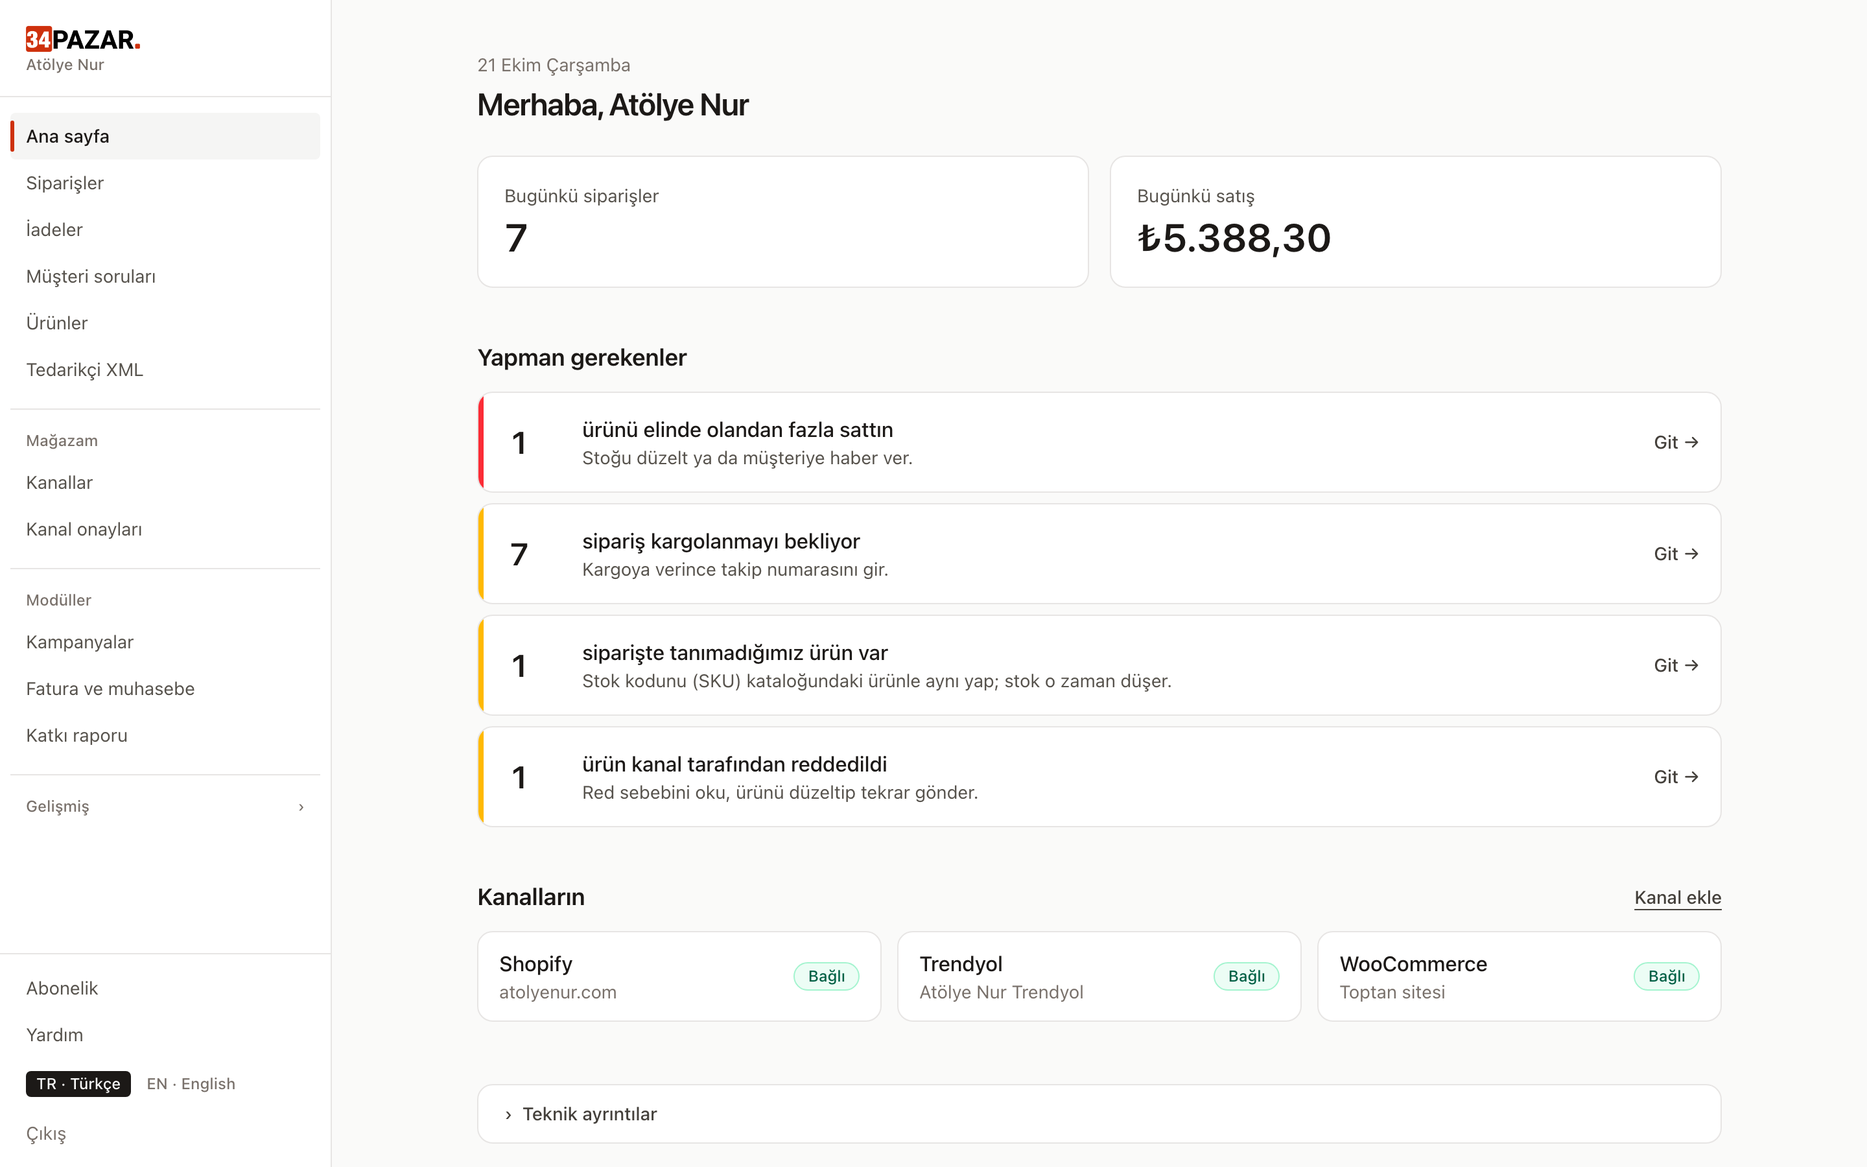
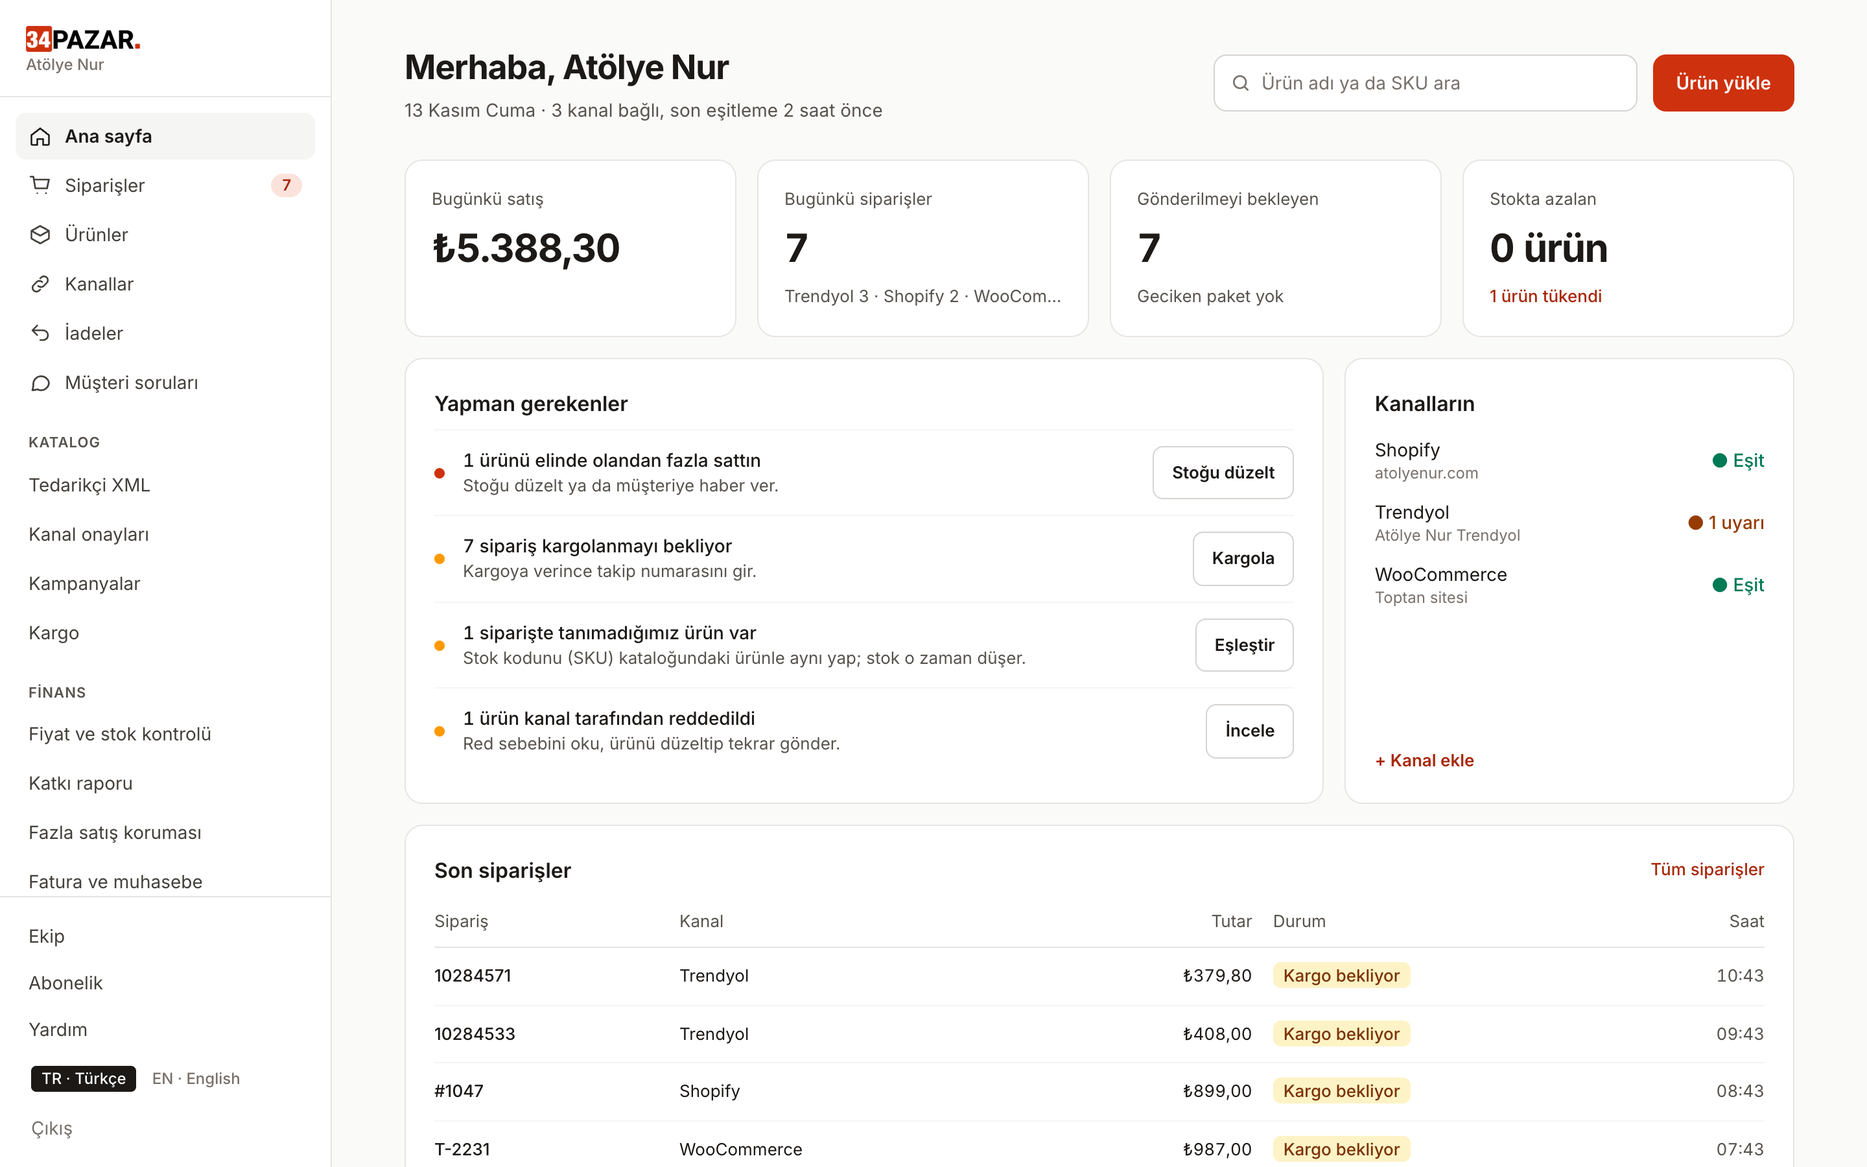
feat(demo): demo panel herkese görünür ve modüller dolu
- Site: hero'da "Demo paneli gör" düğmesi, üst şeritte + mobil menüde
  bağlantı; ana sayfa görselleri yeni panelden (Yön A)
- Demo kullanıcısı SAHİP (bütün menü görünür; yazma rolden bağımsız 403)
- Demo: kanallar bağlı görünür, Yurtiçi + Aras kargo hesabı ve gönderileri,
  Nilvera e-fatura + 2 fatura, 3 müşteri sorusu, 1 iade talebi, dünkü
  siparişler, azalan stok; kurulum şeridi demoda gizli
- Dışarı istek yok: gönderiler takibe girmez, faturalar gönderilmiş
- Uyarı postası demo sahibine gitmez (DispatchAlerts), testli
- Hepsiburada 'Open' durumu "Kargo bekliyor" olarak gösterilir

diff --git a/resources/js/lib/format.js b/resources/js/lib/format.js
@@ -52,7 +52,8 @@ export function channelName(code) {
  * ile listedeki rozet aynı şeyi söylemeli. Tanınmayan durum olduğu gibi
  * yazılır: yanlış bir tercüme uydurmaktan iyidir.
  */
-const awaiting = ['processing', 'paid', 'partially_paid', 'partial', 'created', 'picking', 'invoiced'];
+// 'open' = Hepsiburada'nın gönderime hazır paketi (adapter da awaiting_shipment'a eşler).
+const awaiting = ['processing', 'paid', 'partially_paid', 'partial', 'created', 'picking', 'invoiced', 'open'];
 const shipped = ['shipped', 'completed', 'fulfilled', 'intransit', 'atcollectionpoint'];
 const delivered = ['delivered'];
 const cancelled = ['cancelled', 'canceled', 'unpacked', 'voided', 'failed'];

diff --git a/app/Domain/Identity/Support/DemoAccount.php b/app/Domain/Identity/Support/DemoAccount.php
@@ -16,11 +16,20 @@ use App\Domain\Inventory\Actions\ApplyMovement;
 use App\Domain\Inventory\Actions\LockInventoryRows;
 use App\Domain\Inventory\Enums\MovementType;
 use App\Domain\Inventory\Support\MovementKey;
+use App\Domain\Invoicing\Models\Invoice;
+use App\Domain\Invoicing\Models\InvoiceAccount;
 use App\Domain\Orders\Actions\IngestChannelOrder;
 use App\Domain\Orders\Models\Fulfillment;
 use App\Domain\Orders\Models\Order;
 use App\Domain\Orders\Support\IncomingOrder;
 use App\Domain\Orders\Support\IncomingOrderLine;
+use App\Domain\Questions\Enums\QuestionStatus;
+use App\Domain\Questions\Models\ChannelQuestion;
+use App\Domain\Returns\Enums\ReturnStatus;
+use App\Domain\Returns\Models\ReturnRequest;
+use App\Domain\Returns\Models\ReturnRequestLine;
+use App\Domain\Shipping\Models\CarrierAccount;
+use App\Domain\Shipping\Models\CarrierShipment;
 use App\Domain\Sync\Models\Listing;
 use App\Domain\Sync\Models\ListingSyncState;
 use App\Support\Tenancy\TenantContext;
@@ -126,11 +135,14 @@ final class DemoAccount
         $tenant = (new CreateTenant)->run(name: self::TENANT_NAME, owner: $user);
         $tenant->forceFill(['is_demo' => true])->save();
 
-        // Sahip yok: demo kullanıcısı salt okunur üyedir.
+        // 13 Kas 2026 (kullanıcı kararı): demo kullanıcısı SAHİP rolündedir
+        // ki ziyaretçi menünün TAMAMINI (Ayarlar, Ekip, Abonelik, Kargo,
+        // Fatura) görsün. Yazma yine kapalıdır: `AuthorizeTenantRoute` demo
+        // kiracısında rolden bağımsız olarak yalnız okuma isteğini geçirir.
         TenantUser::query()
             ->where('tenant_id', $tenant->id)
             ->where('user_id', $user->id)
-            ->update(['role' => TenantRole::VIEWER->value]);
+            ->update(['role' => TenantRole::OWNER->value]);
 
         TenantContext::set($tenant->id);
 
@@ -162,7 +174,10 @@ final class DemoAccount
                 'external_account_id' => $account,
                 'status' => 'inactive',
                 'settings' => [],
-                'health_status' => 'unknown',
+                // Örnek bağlantı "bağlı" görünür; `status` inactive kaldığı
+                // için hiçbir iş kanala gitmez (ChannelHttpClient de keser).
+                'health_status' => 'healthy',
+                'last_healthy_at' => now()->subMinutes(4),
                 'connected_at' => now()->subDays(20),
                 'product_publish_enabled' => false,
                 'price_sync_enabled' => false,
@@ -175,7 +190,7 @@ final class DemoAccount
             ['KUP-350-BEYAZ', 'Seramik Kupa 350 ml · Beyaz', '189.90', 64],
             ['KUP-350-YESIL', 'Seramik Kupa 350 ml · Yağ Yeşili', '189.90', 23],
             ['MUM-LAV-200', 'El Yapımı Soya Mum · Lavanta', '249.00', 41],
-            ['MUM-SDR-200', 'El Yapımı Soya Mum · Sedir', '249.00', 7],
+            ['MUM-SDR-200', 'El Yapımı Soya Mum · Sedir', '249.00', 5],
             ['TAB-BAM-L', 'Bambu Kesme Tahtası · Büyük', '329.00', 18],
             ['ORT-KTN-140', 'Keten Masa Örtüsü 140×180', '899.00', 9],
             ['SBN-ZYT-3L', 'Zeytinyağlı Sabun · 3\'lü', '159.00', 120],
@@ -236,6 +251,10 @@ final class DemoAccount
             ['hepsiburada', '4471209101', 'Open', 7, [['KUP-350-YESIL', 4]], 'KUP-350-MAVI'],
             ['shopify', '#1043', 'fulfilled', 26, [['MUM-SDR-200', 1]]],
             ['trendyol', '10283977', 'Delivered', 30, [['SBN-ZYT-3L', 2]]],
+            // Dünün siparişleri: ana sayfadaki "dünden" kıyası anlamlı kalsın.
+            ['hepsiburada', '4471208766', 'Delivered', 25, [['ORT-KTN-140', 2], ['MUM-LAV-200', 2]]],
+            ['shopify', '#1041', 'fulfilled', 27, [['TRM-500-SYH', 3], ['KUP-350-BEYAZ', 2]]],
+            ['trendyol', '10283902', 'Delivered', 29, [['TAB-BAM-L', 2], ['STD-AHS-01', 3]]],
         ];
 
         foreach ($orders as $i => $row) {
@@ -307,5 +326,155 @@ final class DemoAccount
                 'push_status' => null,
             ]);
         }
+
+        $this->fillModules($channels);
+    }
+
+    /**
+     * Kargo, e-fatura, müşteri soruları ve iade — ziyaretçi modüllerin dolu
+     * hâlini görsün (13 Kas 2026, kullanıcı isteği).
+     *
+     * DIŞARI İSTEK ÇIKMAZ:
+     *   · kargo kaydında `confirmed_at` boş → `shipping:track` seçmez
+     *   · fatura `issued` + `upload_status` sent, `public_token` yok → ne
+     *     kesme ne yükleme ne PDF çekme işi tetiklenir
+     *   · soru/iade senkronu `inactive` bağlantıya gitmez
+     *   · kimlik bilgileri örnektir; demo kiracısında yazma rotası zaten 403
+     *
+     * @param  array<string, ChannelConnection>  $channels
+     */
+    private function fillModules(array $channels): void
+    {
+        $tenantId = $channels['trendyol']->tenant_id;
+        $order = fn (string|int $number): Order => Order::query()->where('external_number', (string) $number)->firstOrFail();
+
+        foreach ([CarrierAccount::PROVIDER_YURTICI, CarrierAccount::PROVIDER_ARAS] as $provider) {
+            CarrierAccount::query()->create([
+                'tenant_id' => $tenantId,
+                'provider' => $provider,
+                'environment' => CarrierAccount::ENV_LIVE,
+                'credentials' => ['username' => 'ornekatolye', 'password' => 'ornek-parola'],
+                'status' => CarrierAccount::STATUS_CONNECTED,
+                'verified_at' => now()->subDays(18),
+            ]);
+        }
+
+        // Teslim edilmiş paket + etiketi kesilmiş, kargoya verilmeyi bekleyen paket.
+        $delivered = $order('#1043');
+        CarrierShipment::query()->create([
+            'tenant_id' => $tenantId,
+            'order_id' => $delivered->id,
+            'fulfillment_id' => Fulfillment::query()->where('order_id', $delivered->id)->value('id'),
+            'provider' => CarrierAccount::PROVIDER_YURTICI,
+            'environment' => CarrierAccount::ENV_LIVE,
+            'cargo_key' => '1043-YK',
+            'status' => CarrierShipment::STATUS_DELIVERED,
+            'carrier_status_text' => 'Teslim edildi',
+            'tracking_number' => '30584712206',
+            'package_count' => 1,
+            'attempts' => 1,
+            'create_requested_at' => now()->subHours(25),
+            'shipped_at' => now()->subHours(20),
+            'delivered_at' => now()->subHours(2),
+        ]);
+
+        CarrierShipment::query()->create([
+            'tenant_id' => $tenantId,
+            'order_id' => $order('10284498')->id,
+            'provider' => CarrierAccount::PROVIDER_ARAS,
+            'environment' => CarrierAccount::ENV_LIVE,
+            'cargo_key' => '10284498-AR',
+            'status' => CarrierShipment::STATUS_CREATED,
+            'carrier_status_text' => 'Kargo şubesine teslim bekleniyor',
+            'tracking_number' => '6081734452',
+            'package_count' => 1,
+            'attempts' => 1,
+            'create_requested_at' => now()->subHours(5),
+        ]);
+
+        InvoiceAccount::query()->create([
+            'tenant_id' => $tenantId,
+            'provider' => InvoiceAccount::PROVIDER_NILVERA,
+            'credentials' => ['api_key' => 'demo'],
+            'company_id' => '1234567890',
+            'company_name' => 'Örnek Atölye Tic. Ltd. Şti.',
+            'settings' => [
+                InvoiceAccount::SETTING_ENVIRONMENT => InvoiceAccount::ENVIRONMENT_LIVE,
+                'companies' => [['id' => '1234567890', 'name' => 'Örnek Atölye Tic. Ltd. Şti.']],
+            ],
+            'status' => InvoiceAccount::STATUS_CONNECTED,
+        ]);
+
+        foreach (['#1043' => 'EAR2026000000118', '10283977' => 'EAR2026000000117'] as $number => $invoiceNumber) {
+            Invoice::query()->create([
+                'tenant_id' => $tenantId,
+                'order_id' => $order($number)->id,
+                'provider' => InvoiceAccount::PROVIDER_NILVERA,
+                'status' => Invoice::STATUS_ISSUED,
+                'document_type' => Invoice::TYPE_E_ARCHIVE,
+                'kind' => Invoice::KIND_SALE,
+                'invoice_number' => $invoiceNumber,
+                'attempts' => 1,
+                'issued_at' => now()->subHours(22),
+                'upload_status' => Invoice::UPLOAD_SENT,
+                'upload_attempts' => 1,
+                'uploaded_at' => now()->subHours(21),
+            ]);
+        }
+
+        // [kanal, soru, ürün, kaç saat önce, cevap]
+        foreach ([
+            ['trendyol', 'Kupa bulaşık makinesinde yıkanabilir mi?', 'Seramik Kupa 350 ml · Beyaz', 4, null],
+            ['hepsiburada', 'Mumun yanma süresi ne kadar?', 'El Yapımı Soya Mum · Lavanta', 9, null],
+            ['trendyol', 'Masa örtüsü yıkanınca çeker mi?', 'Keten Masa Örtüsü 140×180', 30, 'Ön yıkamalı keten kullanıyoruz; 30 derecede yıkandığında çekme olmaz.'],
+        ] as $i => [$code, $body, $product, $hoursAgo, $answer]) {
+            ChannelQuestion::query()->create([
+                'tenant_id' => $tenantId,
+                'channel_connection_id' => $channels[$code]->id,
+                'channel_type_code' => $code,
+                'external_question_id' => 'demo-q-'.$i,
+                'product_name' => $product,
+                'body' => $body,
+                'asked_at' => now()->subHours($hoursAgo),
+                'expires_at' => now()->subHours($hoursAgo)->addDays(3),
+                'status' => $answer === null ? QuestionStatus::AWAITING_ANSWER->value : QuestionStatus::ANSWERED->value,
+                'answer_body' => $answer,
+                'answered_at' => $answer === null ? null : now()->subHours($hoursAgo - 2),
+                'last_seen_at' => now()->subMinutes(10),
+            ]);
+        }
+
+        // Teslim edilen siparişten iade: ürün depoya ulaştı, karar bekliyor.
+        $returned = $order('10283977');
+        $line = $returned->lines()->first();
+        $claim = ReturnRequest::query()->create([
+            'tenant_id' => $tenantId,
+            'channel_connection_id' => $channels['trendyol']->id,
+            'channel_type_code' => 'trendyol',
+            'external_claim_id' => '48213907',
+            'external_order_number' => '10283977',
+            'order_id' => $returned->id,
+            'match_status' => 'matched',
+            'status' => ReturnStatus::AWAITING_ACTION->value,
+            'claim_type' => 'return',
+            'claimed_at' => now()->subHours(6),
+            'last_seen_at' => now()->subMinutes(10),
+        ]);
+        ReturnRequestLine::query()->create([
+            'tenant_id' => $tenantId,
+            'return_request_id' => $claim->id,
+            'channel_connection_id' => $channels['trendyol']->id,
+            'external_item_id' => '48213907-1',
+            'sku' => $line?->sku,
+            'product_name' => $line?->title,
+            'quantity' => 1,
+            'order_line_id' => $line?->id,
+            'variant_id' => $line?->variant_id,
+            'match_status' => 'matched',
+            'status' => ReturnStatus::AWAITING_ACTION->value,
+            'reason_text' => 'Ürün beklentimi karşılamadı',
+            'receipt_proven_at' => now()->subHours(3),
+            'restock_status' => ReturnRequestLine::RESTOCK_PENDING,
+        ]);
     }
 }

diff --git a/tests/Feature/Identity/DemoAccountTest.php b/tests/Feature/Identity/DemoAccountTest.php
@@ -14,6 +14,7 @@ use App\Domain\Identity\Models\Tenant;
 use App\Domain\Identity\Models\User;
 use App\Domain\Identity\Support\DemoAccount;
 use App\Support\Logging\PayloadRedactor;
+use App\Support\Observability\DispatchAlerts;
 use App\Support\Privacy\SealedJson;
 use App\Support\Tenancy\TenantContext;
 use Database\Seeders\ChannelTypeSeeder;
@@ -24,6 +25,7 @@ use Illuminate\Support\Facades\DB;
 use Illuminate\Support\Facades\Http;
 use Illuminate\Support\Facades\Notification;
 use PHPUnit\Framework\Attributes\Test;
+use ReflectionMethod;
 use Tests\TestCase;
 
 /**
@@ -53,8 +55,10 @@ final class DemoAccountTest extends TestCase
         $tenant = Tenant::query()->where('is_demo', true)->sole();
         $roles = DB::table('tenant_users')->where('tenant_id', $tenant->id)->pluck('role')->all();
 
-        // Sahip yok: günlük uyarı postaları kimseye gitmez.
-        $this->assertSame([TenantRole::VIEWER->value], $roles);
+        // 13 Kas 2026: demo kullanıcısı SAHİP — ziyaretçi bütün menüyü
+        // görür; yazma rolden bağımsız kapalı (aşağıdaki testler), uyarı
+        // postası demo adresine gitmez (the_demo_owner_gets_no_alert_mail).
+        $this->assertSame([TenantRole::OWNER->value], $roles);
 
         $connections = DB::table('channel_connections')->where('tenant_id', $tenant->id)->get();
         $this->assertCount(3, $connections);
@@ -65,7 +69,15 @@ final class DemoAccountTest extends TestCase
             $this->assertFalse((bool) $c->product_publish_enabled);
         }
 
-        $this->assertSame(9, DB::table('orders')->where('tenant_id', $tenant->id)->count());
+        $this->assertSame(12, DB::table('orders')->where('tenant_id', $tenant->id)->count());
+
+        // Modüller dolu görünür: kargo, e-fatura, soru, iade.
+        $this->assertSame(2, DB::table('carrier_accounts')->where('tenant_id', $tenant->id)->count());
+        $this->assertSame(1, DB::table('invoice_accounts')->where('tenant_id', $tenant->id)->count());
+        $this->assertSame(3, DB::table('channel_questions')->where('tenant_id', $tenant->id)->count());
+        $this->assertSame(1, DB::table('return_requests')->where('tenant_id', $tenant->id)->count());
+        // Kargo takibi dışarı çıkmasın: hiçbir gönderi takip listesine girmez.
+        $this->assertSame(0, DB::table('carrier_shipments')->where('tenant_id', $tenant->id)->whereNotNull('confirmed_at')->count());
         // Alıcı bilgisi şifreli saklanır; açınca boş olmalı.
         foreach (DB::table('orders')->where('tenant_id', $tenant->id)->pluck('customer_ref') as $sealed) {
             $this->assertSame([], SealedJson::open($sealed) ?? []);
@@ -194,6 +206,17 @@ final class DemoAccountTest extends TestCase
         $demo->sendEmailVerificationNotification();
 
         Notification::assertNothingSent();
+    }
+
+    #[Test]
+    public function the_demo_owner_gets_no_alert_mail(): void
+    {
+        $this->artisan('demo:install')->assertSuccessful();
+        $tenant = Tenant::query()->where('is_demo', true)->sole();
+
+        $method = new ReflectionMethod(DispatchAlerts::class, 'tenantOwnerEmails');
+
+        $this->assertSame([], $method->invoke(app(DispatchAlerts::class), $tenant->id));
     }
 
     /** Site "Demoyu incele" der — ama yalnız demo kuruluysa (bağlantı 404 vermesin). */

diff --git a/resources/views/site/partials/topbar.blade.php b/resources/views/site/partials/topbar.blade.php
@@ -14,6 +14,10 @@
         <span class="hidden md:inline">{{ $en ? 'Support:' : 'Destek:' }} <a href="mailto:{{ $email }}">{{ $email }}</a></span>
         <span>WhatsApp: <a href="https://wa.me/{{ config('site.whatsapp') }}">{{ config('site.whatsapp_display') }}</a></span>
         <span class="hidden lg:inline">{{ $en ? 'Every day' : 'Her gün' }} {{ config('site.support_hours') }}</span>
+        {{-- 13 Kas 2026 · demo panel herkese görünür (başlıkta yer yok: menü kırılıyordu). --}}
+        @if ($demoAvailable ?? false)
+            <a href="{{ route('demo') }}" class="hidden sm:inline" rel="nofollow">{{ $en ? 'Demo panel' : 'Demo paneli gör' }}</a>
+        @endif
         @unless ($en)
             <a href="{{ route('site.contact', ['konu' => 'gorusme']) }}#form">Görüşme planla</a>
         @endunless

diff --git a/resources/views/site/home.blade.php b/resources/views/site/home.blade.php
@@ -113,7 +113,7 @@
                 <div class="mt-8 flex flex-wrap items-center gap-x-6 gap-y-4">
                     <a href="{{ $signupUrl }}" class="btn btn-primary btn-lg">{{ $signupLabel }}</a>
                     @if ($demoAvailable ?? false)
-                        <a href="{{ route('demo') }}" class="home-hero__link" rel="nofollow">{{ $t('Demo hesabı incele', 'Explore the demo account') }} <span aria-hidden="true">→</span></a>
+                        <a href="{{ route('demo') }}" class="btn btn-secondary btn-lg" rel="nofollow">{{ $t('Demo paneli gör', 'See the demo panel') }}</a>
                     @else
                         <a href="#kanallar" class="home-hero__link">{{ $t('Bağlanan kanallar', 'Supported channels') }} <span aria-hidden="true">→</span></a>
                     @endif

diff --git a/app/Support/Observability/DispatchAlerts.php b/app/Support/Observability/DispatchAlerts.php
@@ -4,6 +4,7 @@ declare(strict_types=1);
 
 namespace App\Support\Observability;
 
+use App\Domain\Identity\Support\DemoAccount;
 use App\Support\Tenancy\TenantContext;
 use Illuminate\Support\Facades\DB;
 use Illuminate\Support\Facades\Log;
@@ -247,6 +248,12 @@ final class DispatchAlerts
      */
     private function tenantOwnerEmails(string $tenantId): array
     {
+        // Demo kiracısının sahibi herkese açık ortak hesaptır (13 Kas 2026);
+        // adresi posta almaz, geri dönen posta gönderici itibarını düşürür.
+        if (DemoAccount::isDemoTenant($tenantId)) {
+            return [];
+        }
+
         $emails = DB::table('tenant_users')
             ->join('users', 'users.id', '=', 'tenant_users.user_id')
             ->where('tenant_users.tenant_id', $tenantId)

diff --git a/app/Http/Middleware/HandleInertiaRequests.php b/app/Http/Middleware/HandleInertiaRequests.php
@@ -153,7 +153,10 @@ class HandleInertiaRequests extends Middleware
             // S7 · kurulum adımlarını (kanal bağla, ürün gönder) yalnız
             // yapabilecek olan görür: depo/salt okunur üyeye tıklayınca 403
             // veren bir şerit gösterilmez.
+            // Demo kiracısında kurulum şeridi YOK: ziyaretçi hazır bir
+            // mağazaya bakar, "kanal bağla" çağrısı 403'e giderdi.
             'onboarding' => fn (): ?array => $request->attributes->get('tenant') === null
+                || ($request->attributes->get('tenant')?->is_demo ?? false)
                 || ! ($request->attributes->get('tenant_role')?->allows(Permission::CHANNELS_MANAGE) ?? false)
                 ? null
                 : (new OnboardingProgress)->forCurrentTenant(),

diff --git a/resources/views/site/partials/header.blade.php b/resources/views/site/partials/header.blade.php
@@ -233,6 +233,9 @@
                     <a href="{{ url('/panel') }}" class="btn btn-primary w-full">{{ $t('Panele git', 'Open panel') }}</a>
                 @else
                     <a href="{{ route('register') }}" class="btn btn-primary w-full">{{ $t('Ücretsiz dene', 'Try free') }}</a>
+                    @if ($demoAvailable ?? false)
+                        <a href="{{ route('demo') }}" class="btn btn-secondary w-full" rel="nofollow">{{ $t('Demo paneli gör', 'See the demo panel') }}</a>
+                    @endif
                     <a href="{{ route('login') }}" class="btn btn-secondary w-full">{{ $t('Giriş yap', 'Log in') }}</a>
                 @endif
             </div>
